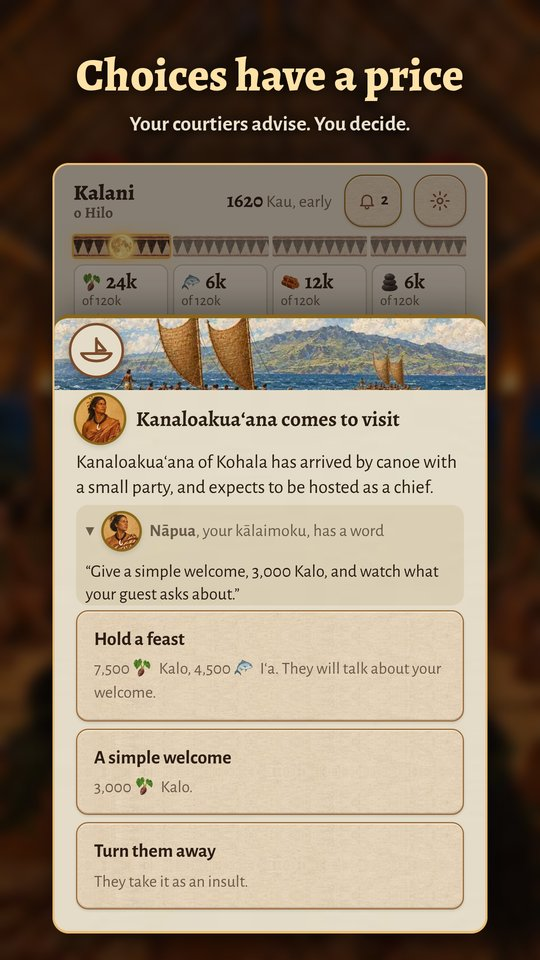
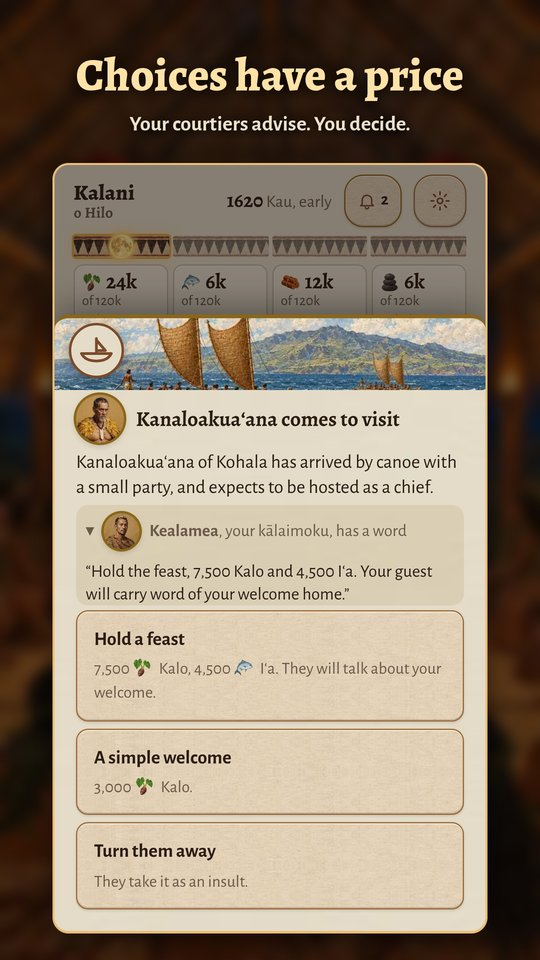
Aliʻi: 5.5.25 release notes and new event and court screenshots
Claude-Session: https://claude.ai/code/session_013z2ydSFxaMUs1ZUjegomNp

Changed region(s): [[0.1481, 0.5312, 0.8, 0.625], [0.1481, 0.4062, 0.237, 0.4688]]

diff --git a/alii/release-notes.html b/alii/release-notes.html
@@ -61,6 +61,26 @@ a{color:var(--kalo)}
 <li>Endings: the medal is capped by goals met and the sheet says why, four lines of your chant show on the end sheet, and the titles no longer read "A chief remembered".</li>
 <li>Text: American spelling throughout, no "Kingdom" before unification, "vassal" removed, and Hāʻena spelled with its kahakō.</li>
 </ul></section>
+<section class="rel"><h2>5.5.25 (2026-11-24)</h2>
+<p class="where">closed testing 1233 and 1234 (with the face fix) on 2026-11-24; Google Play production 1234 at 100%, sent for review 2026-11-24, together with 5.5.24. Not in the App Store (next App Store release is 5.5.26 or later).</p>
+
+<ul>
+<li>In dynasty mode a chief's death is now a short story: a funeral sheet with four lines of chant, then, when the heir is a child or a cousin, a rival may press a claim (give him a seat at court, answer it before the elders, or refuse and risk a raid), and a rival may offer a marriage that can secure the line.</li>
+<li>Before you conquer a district, the march sheet shows its unrest and about how many seasons it will hold before it revolts.</li>
+<li>New painted faces for rival chiefs, court elders and aliʻi, three historical chiefs, spouses, and war leaders, now including women. Each reign keeps its faces distinct.</li>
+<li>The chief picker has 11 faces to choose from.</li>
+<li>Every portrait and character now has a recorded sex, and rival chiefs only ever show men's faces (in closed testing a male rival could show a chiefess's face). Chiefess rivals come in a later release.</li>
+<li>Repeated envoy and peace lines were rewritten, raw amounts on cards now show real figures, and rivals speak about what you did to them in plain words.</li>
+</ul></section>
+<section class="rel"><h2>5.5.24 (2026-11-24)</h2>
+<p class="where">closed testing 1232 on 2026-11-24. Held from Google Play production by the owner and shipped with 5.5.25 (production 1234, sent for review 2026-11-24); not in the App Store.</p>
+
+<ul>
+<li>A new "Keep food at" switch (Off, +10%, +25%) sits on the Village Work page. When a season ends, it moves up to two groups of idle or spare workers into farming or fishing if food is short. Off changes nothing, and the report says who moved.</li>
+<li>Five events have new paintings: kapu declared, an envoy's arrival, a quarrel at court, a courtier's death, and a stronger chief's demand.</li>
+<li>Costs on more event cards show the same figures as your tiles.</li>
+<li>The march sheet sentence after the expected losses now ends with a period.</li>
+</ul></section>
 <section class="rel"><h2>5.5.23 (2026-11-24)</h2>
 <p class="where">closed testing 1231 on 2026-11-24; Google Play production 1231 at 100%, live 2026-11-24. Not sent to the App Store: iPhone players get these changes with 5.5.26 or a later release.</p>
 
